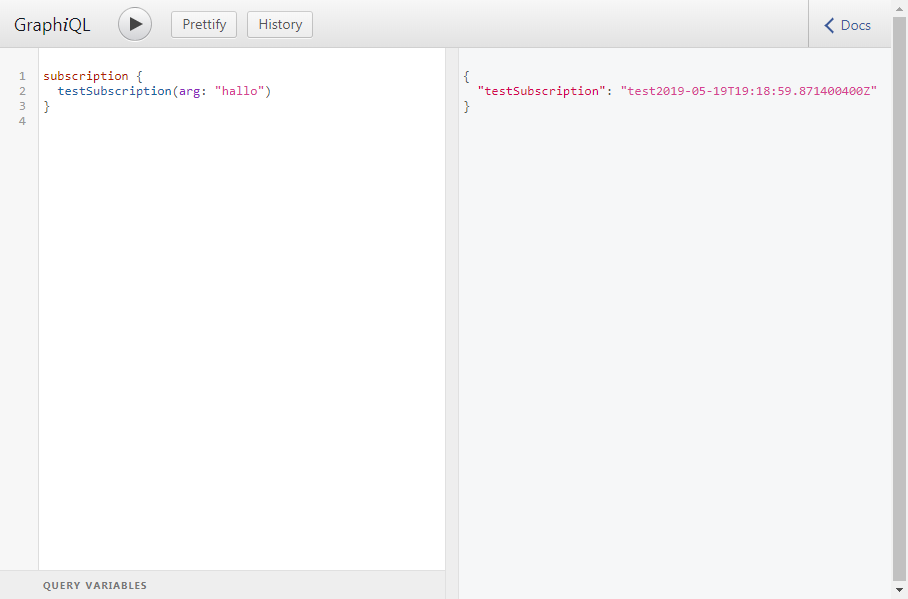
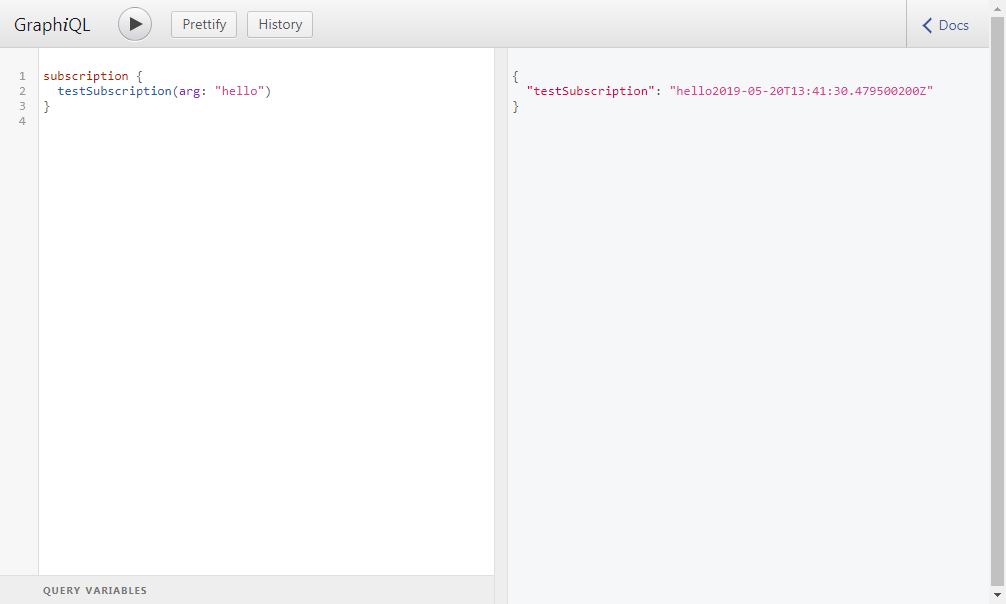
Simplifies the Flux implementation
Instead of using a java timer implementation it is far easier to use the
Flux.interval feature. This reduces the code tremendously.

diff --git a/src/main/java/com/example/graphql/SubscriptionResolver.java b/src/main/java/com/example/graphql/SubscriptionResolver.java
@@ -3,30 +3,14 @@ package com.example.graphql;
 import com.coxautodev.graphql.tools.GraphQLSubscriptionResolver;
 import org.springframework.stereotype.Component;
 import reactor.core.publisher.Flux;
-import reactor.core.publisher.FluxSink;
 
+import java.time.Duration;
 import java.time.Instant;
-import java.util.concurrent.Executors;
-import java.util.concurrent.ScheduledExecutorService;
-import java.util.concurrent.TimeUnit;
 
 @Component
 public class SubscriptionResolver implements GraphQLSubscriptionResolver {
 
     public Flux<String> testSubscription(String arg) {
-        Flux<String> stringFlux = Flux.create(emitter -> {
-            ScheduledExecutorService executorService = Executors.newScheduledThreadPool(1);
-            executorService.scheduleAtFixedRate(sendValues(emitter), 0, 2, TimeUnit.SECONDS);
-
-        });
-        return stringFlux;
+        return Flux.interval(Duration.ofSeconds(2)).map(i -> arg + Instant.now().toString());
     }
-
-
-    private Runnable sendValues(FluxSink<String> emitter) {
-        return () -> {
-            emitter.next("test" + Instant.now().toString());
-        };
-    }
-
 }

diff --git a/README.md b/README.md
@@ -7,10 +7,10 @@ To test the subscription start this Spring Boot application and open http://loca
 The subscription can be called like this:
 ```
 subscription {
-  testSubscription(arg: "hallo")
+  testSubscription(arg: "hello")
 }
 ``` 
 
-In results window will show "test"+current timestamp which is updated every 2 seconds:
+In results window will show "hello"+current timestamp which is updated every 2 seconds:
 
 ![GraphiQL window](graphiql-call-subscription.png)
